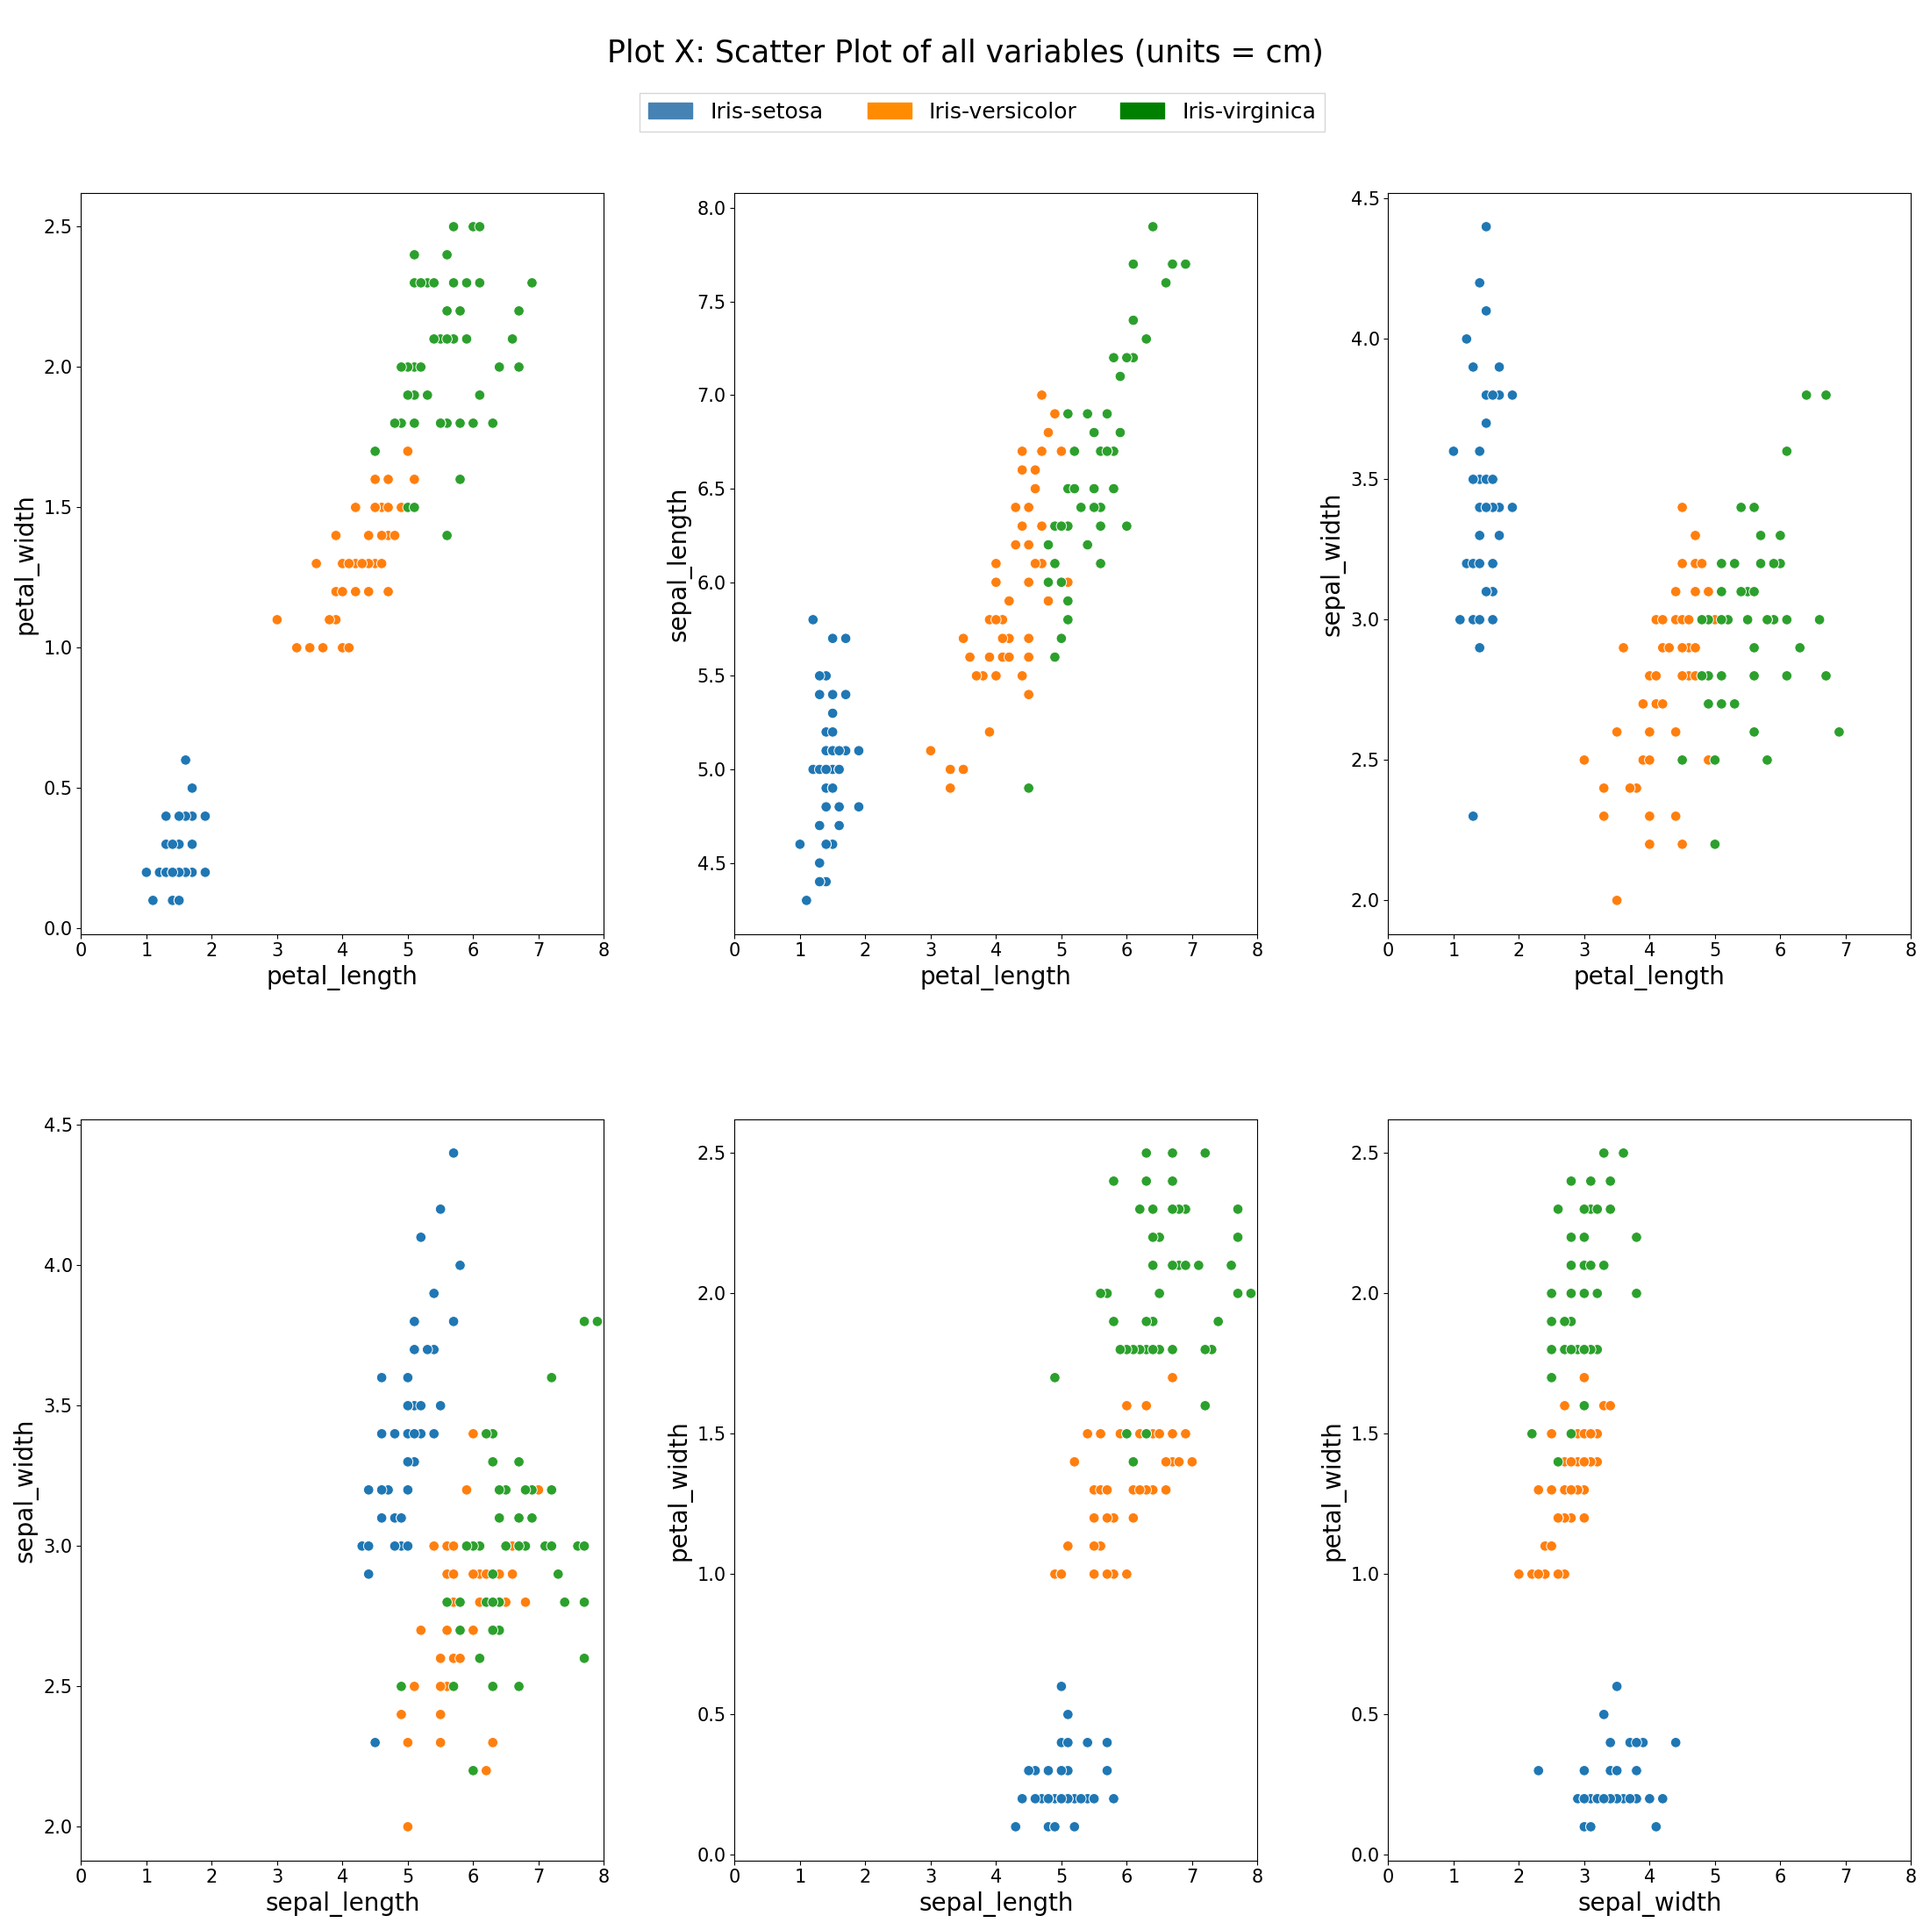
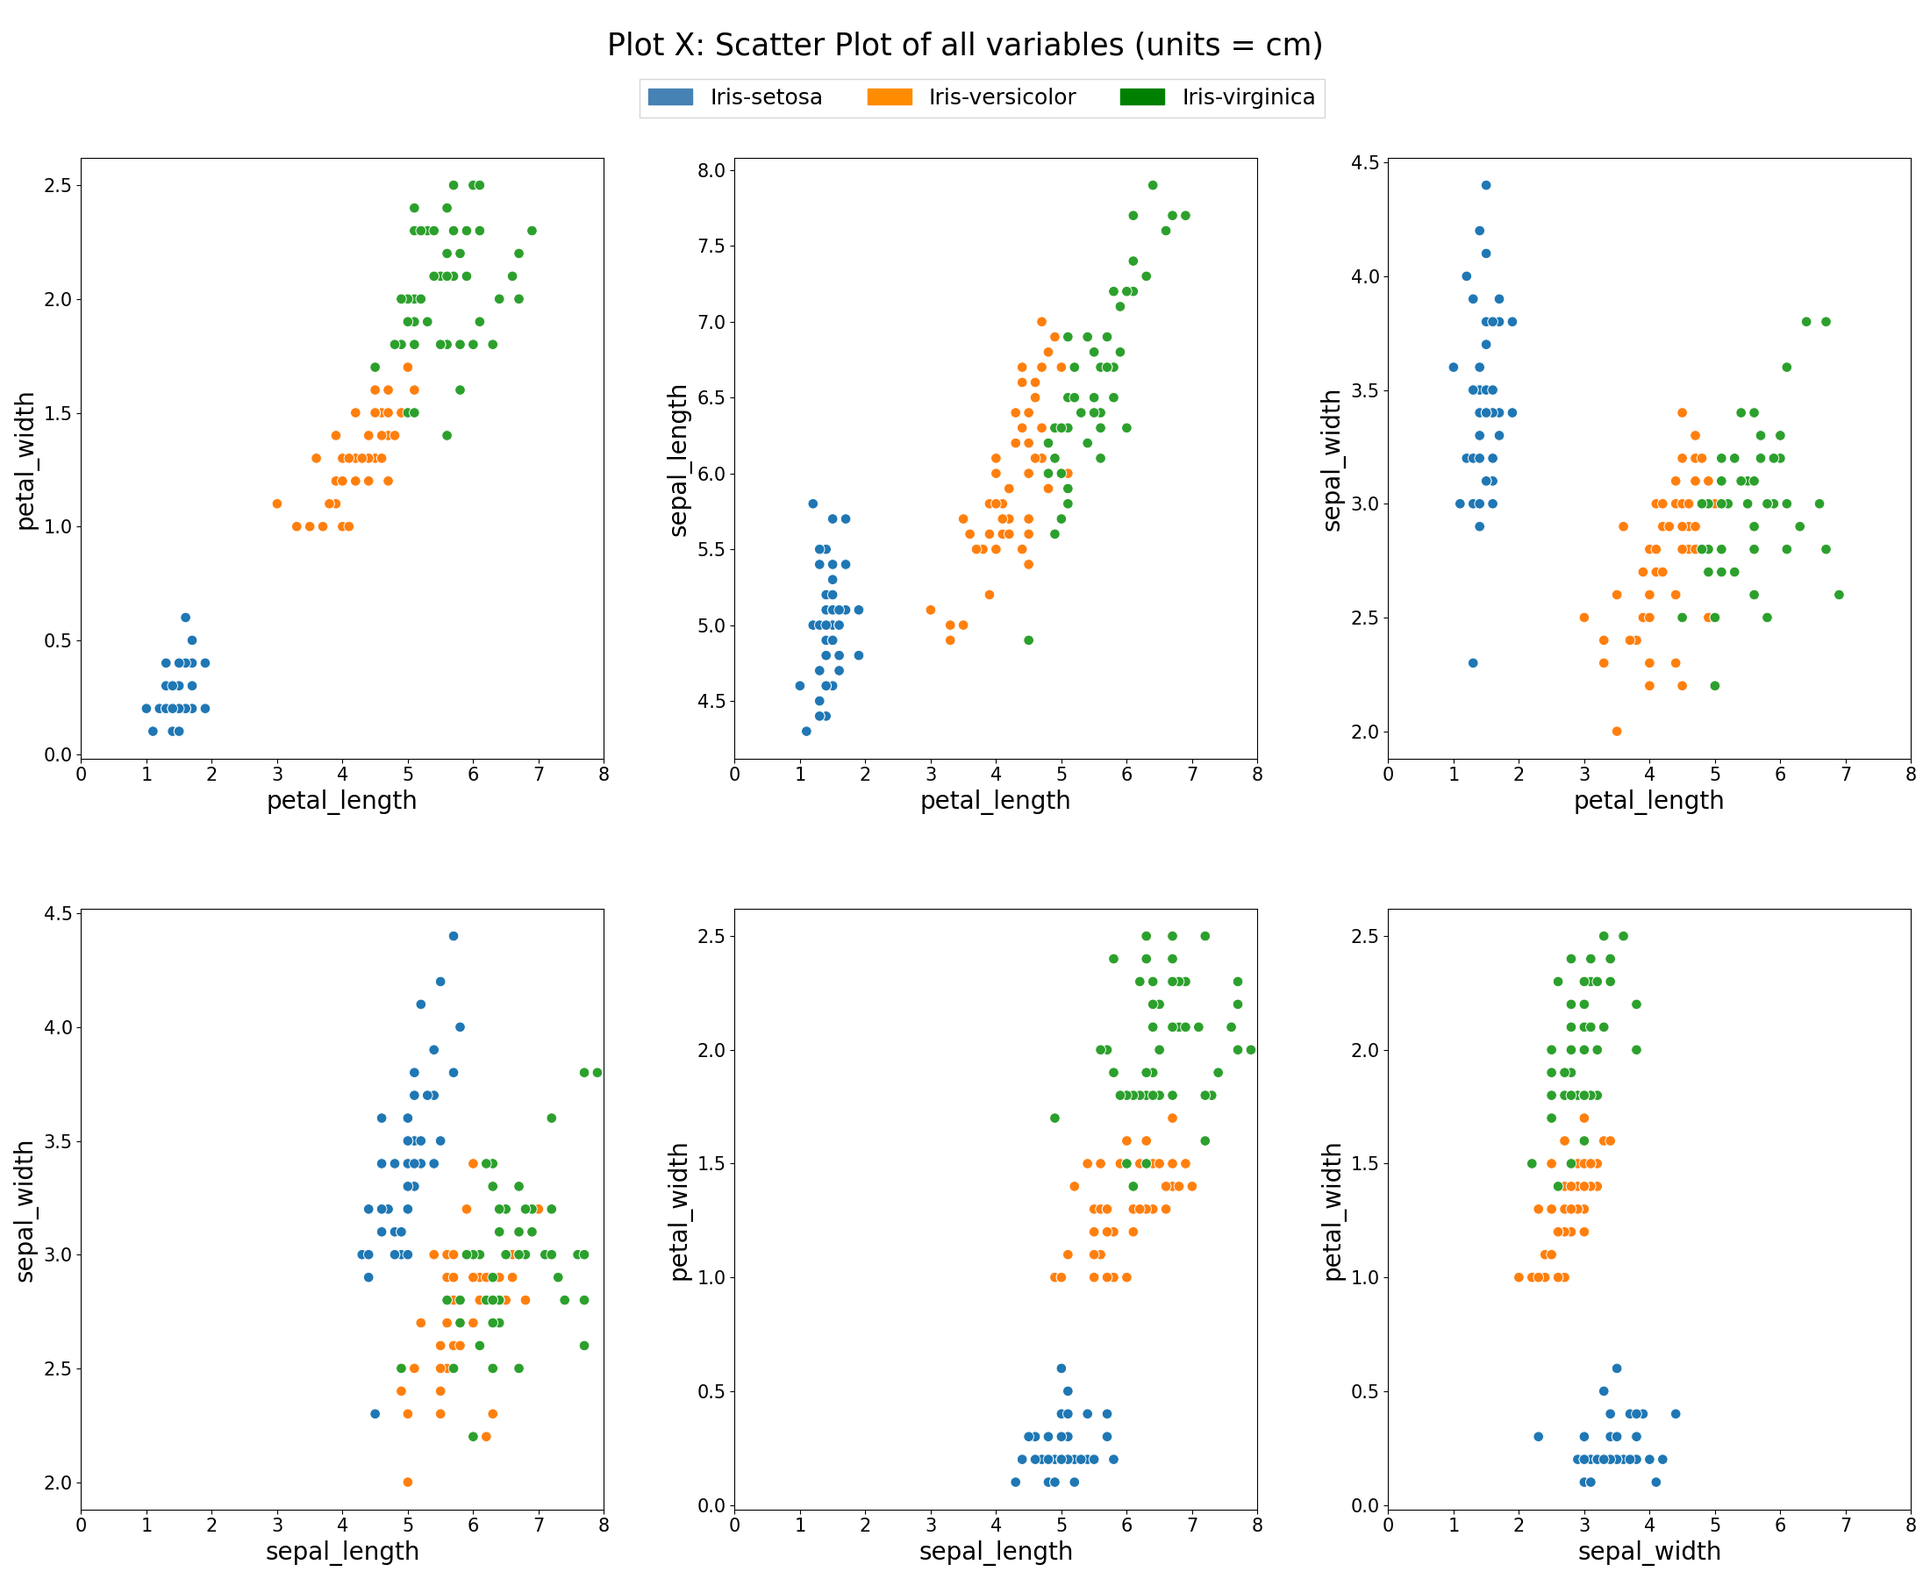
test

diff --git a/Project/analysis.py b/Project/analysis.py
@@ -115,7 +115,7 @@ def plot_boxplot():
     virgi = mpatches.Patch(color='green')
 
     plt.legend(title = False, labels=legend_labels,
-              handles=[setosa, versi, virgi], bbox_to_anchor=(0.2, 1.1),
+              handles=[setosa, versi, virgi], bbox_to_anchor=(-0.3, 1.1),
               fancybox=False, shadow=False, ncol=3, loc='upper right', fontsize = 25)
 
     for ax in plt.gcf().axes:
@@ -139,13 +139,13 @@ plot_boxplot()
 def scatter_plot(): 
     from matplotlib import patches as mpatches
     
-    fig, axes = plt.subplots(2, 3, figsize=(22, 22))
-    plt.subplots_adjust(wspace=0.2,hspace=0.2)#  hspace=0.3
+    fig, axes = plt.subplots(2, 3, figsize=(22, 18))
+    plt.subplots_adjust(wspace=0.2,hspace=0.4)
     fig.suptitle('Plot X: Scatter Plot of all variables (units = cm)',fontsize = 25)
     
     sns.scatterplot(ax=axes[0, 0], data=iris_df, x='petal_length', y='petal_width', hue = 'species',legend = False, s = 70)
     sns.scatterplot(ax=axes[0, 1], data=iris_df, x='petal_length', y='sepal_length',hue = 'species',legend = False, s = 70)
-    sns.scatterplot(ax=axes[0, 2], data=iris_df, x='petal_length', y='sepal_width', hue = 'species',legend = False, s = 70)
+    sns.scatterplot(ax=axes[0, 2], data=iris_df, x='petal_length', y='sepal_width', hue = 'species',legend = False, s = 70) 
     sns.scatterplot(ax=axes[1, 0], data=iris_df, x='sepal_length', y='sepal_width', hue = 'species',legend = False, s = 70)
     sns.scatterplot(ax=axes[1, 1], data=iris_df, x='sepal_length', y='petal_width', hue = 'species',legend = False, s = 70) 
     sns.scatterplot(ax=axes[1, 2], data=iris_df, x='sepal_width',  y='petal_width', hue = 'species',legend = False, s = 70)
